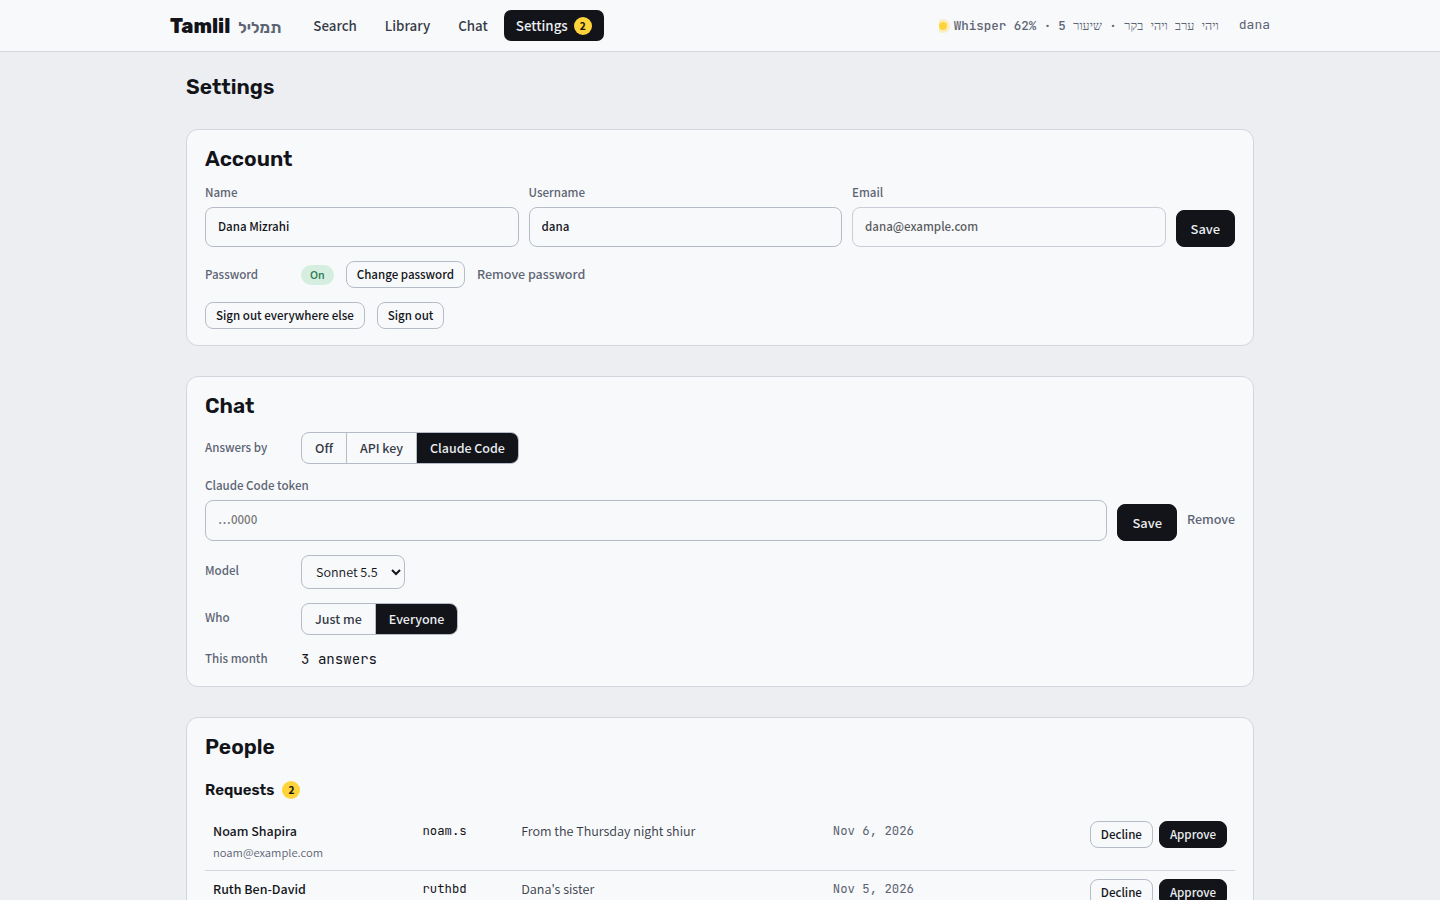
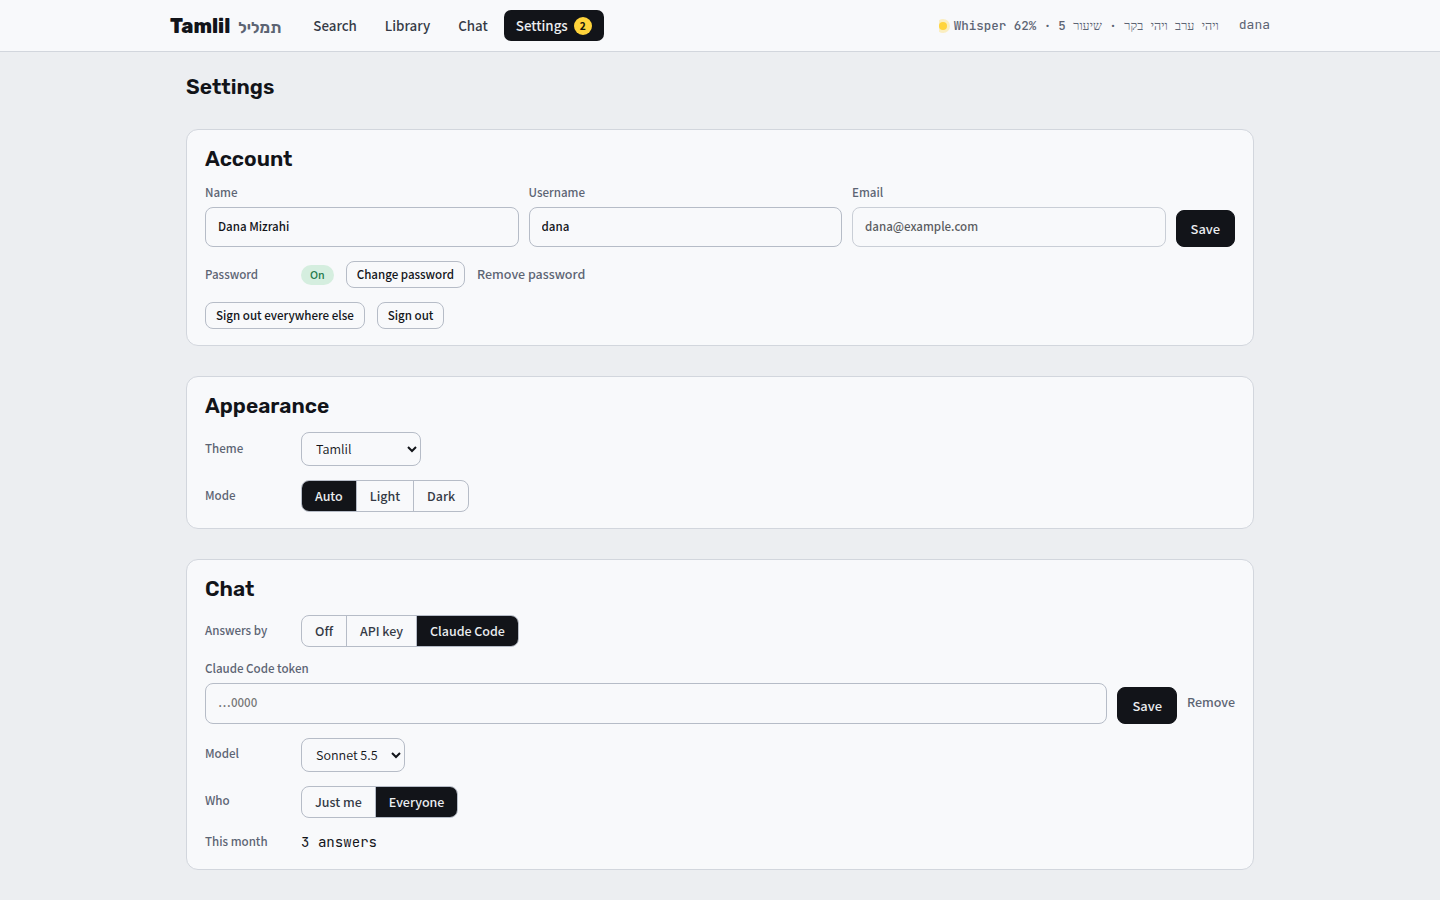
Themes: fourteen of them, light and dark, picked in Settings
Settings has a new Appearance section for everyone: a Theme list and a
Mode switch (Auto, Light, Dark), kept per device in the browser.
themes.js makes every colour app.css uses from a few per theme and
keeps text readable in all of them; Tamlil's own is unchanged.

diff --git a/app/tamlil/static/themes.js b/app/tamlil/static/themes.js
@@ -1,0 +1,144 @@
+/* Tamlil's themes. A theme is a few colours in a light and a dark version, and every colour token
+   app.css uses is made from them here, so text keeps its contrast in all of them. Tamlil's own is
+   app.css's colours exactly. The yellow highlight (--cap) is each theme's own yellow.
+
+   Kept per device in localStorage: tamlil.look (which theme) and tamlil.mode (auto, light or dark;
+   auto follows the device). Loaded in each page's head, so the colours are on before anything shows. */
+(() => {
+// bg: the page; surface: the bar and cards; ink: text; accent: links and what's running;
+// cap: the highlight; form: other forms of a word; good, warn, bad. Only bg, ink and accent are needed.
+const TAMLIL_LIGHT = {
+  '--bg': '#ECEEF1', '--surface': '#F8F9FB', '--sunk': '#E2E5EA', '--ink': '#121419', '--ink-2': '#343945', '--muted': '#5C6473',
+  '--rule': '#D2D6DD', '--rule-2': '#B6BCC7', '--cap': '#FFD43B', '--cap-ink': '#17150A', '--focus': '#2851C8',
+  '--form': '#07756D', '--form-bg': '#D3EEEA', '--ok': '#1F7A4A', '--ok-bg': '#D5EEDF', '--warn': '#8F5A00', '--warn-bg': '#F6E7C8',
+  '--bad': '#B8322A', '--bad-bg': '#F6DAD7', '--run': '#2851C8', '--run-bg': '#DCE4F8', 'color-scheme': 'light',
+};
+const TAMLIL_DARK = {
+  '--bg': '#0E1014', '--surface': '#161920', '--sunk': '#1E222A', '--ink': '#E7EAF0', '--ink-2': '#C2C7D0', '--muted': '#8C94A3',
+  '--rule': '#2A2F39', '--rule-2': '#3D4350', '--cap': '#FFD43B', '--cap-ink': '#17150A', '--focus': '#86A5FF',
+  '--form': '#62D2C5', '--form-bg': '#0F302C', '--ok': '#5BCB90', '--ok-bg': '#12301F', '--warn': '#E6B656', '--warn-bg': '#35280C',
+  '--bad': '#F2796F', '--bad-bg': '#3A1714', '--run': '#86A5FF', '--run-bg': '#1A2446', 'color-scheme': 'dark',
+};
+
+const FAMILIES = [
+  { id: 'tamlil', name: 'Tamlil', light: { vars: TAMLIL_LIGHT }, dark: { vars: TAMLIL_DARK } },
+  { id: 'paper', name: 'Paper',
+    light: { bg: '#f7f0e3', surface: '#fcf8f0', ink: '#3a3127', accent: '#9a5b1f', cap: '#f3cd5e', form: '#3f7a6e' },
+    dark: { bg: '#1d1915', surface: '#241f19', ink: '#e8dcc6', accent: '#d39a5b', cap: '#e3b34f', form: '#7fbfb0' } },
+  { id: 'pencil', name: 'Blue pencil',
+    light: { bg: '#f4f7fa', surface: '#ffffff', ink: '#3a4450', accent: '#2e7bd6', cap: '#ffe066', form: '#1a8a7a', bad: '#d0457b' },
+    dark: { bg: '#17202b', surface: '#1c2733', ink: '#cfd8e2', accent: '#5aa5f0', cap: '#e8c547', form: '#5fc9b8', bad: '#f07aa5' } },
+  { id: 'nord', name: 'Nord',
+    light: { bg: '#e5e9f0', surface: '#eceff4', ink: '#2e3440', accent: '#5e81ac', cap: '#ebcb8b', form: '#5e9c9b', good: '#5f8a4a', warn: '#b0703a', bad: '#bf616a' },
+    dark: { bg: '#2e3440', surface: '#3b4252', ink: '#e5e9f0', accent: '#88c0d0', cap: '#ebcb8b', form: '#8fbcbb', good: '#a3be8c', warn: '#d08770', bad: '#bf616a' } },
+  { id: 'solarized', name: 'Solarized',
+    light: { bg: '#eee8d5', surface: '#fdf6e3', ink: '#475b62', accent: '#268bd2', cap: '#e5c35a', form: '#2aa198', good: '#859900', warn: '#cb4b16', bad: '#dc322f' },
+    dark: { bg: '#002b36', surface: '#073642', ink: '#a3b1b1', accent: '#268bd2', cap: '#b58900', form: '#2aa198', good: '#859900', warn: '#cb4b16', bad: '#dc322f' } },
+  { id: 'gruvbox', name: 'Gruvbox',
+    light: { bg: '#f2e5bc', surface: '#fbf1c7', ink: '#3c3836', accent: '#076678', cap: '#fabd2f', form: '#427b58', good: '#79740e', warn: '#af3a03', bad: '#9d0006' },
+    dark: { bg: '#282828', surface: '#32302f', ink: '#ebdbb2', accent: '#83a598', cap: '#fabd2f', form: '#8ec07c', good: '#b8bb26', warn: '#fe8019', bad: '#fb4934' } },
+  { id: 'catppuccin', name: 'Catppuccin',
+    light: { bg: '#e6e9ef', surface: '#eff1f5', ink: '#4c4f69', accent: '#1e66f5', cap: '#f5c56b', form: '#179299', good: '#40a02b', warn: '#fe640b', bad: '#d20f39' },
+    dark: { bg: '#1e1e2e', surface: '#181825', ink: '#cdd6f4', accent: '#89b4fa', cap: '#f9e2af', form: '#94e2d5', good: '#a6e3a1', warn: '#fab387', bad: '#f38ba8' } },
+  { id: 'rose-pine', name: 'Rosé Pine',
+    light: { bg: '#f2e9e1', surface: '#faf4ed', ink: '#575279', accent: '#286983', cap: '#f6c177', form: '#56949f', good: '#56949f', warn: '#ea9d34', bad: '#b4637a' },
+    dark: { bg: '#232136', surface: '#2a273f', ink: '#e0def4', accent: '#c4a7e7', cap: '#f6c177', form: '#9ccfd8', good: '#9ccfd8', warn: '#ea9a97', bad: '#eb6f92' } },
+  { id: 'tokyo', name: 'Tokyo Night',
+    light: { bg: '#d5d6db', surface: '#e1e2e7', ink: '#343b58', accent: '#2e7de9', cap: '#e0af68', form: '#387068', good: '#587539', warn: '#b15c00', bad: '#f52a65' },
+    dark: { bg: '#1a1b26', surface: '#16161e', ink: '#c0caf5', accent: '#7aa2f7', cap: '#e0af68', form: '#73daca', good: '#9ece6a', warn: '#ff9e64', bad: '#f7768e' } },
+  { id: 'dracula', name: 'Dracula',
+    light: { bg: '#f5f0d8', surface: '#fffbeb', ink: '#1f1f1f', accent: '#644ac9', cap: '#ece05a', form: '#036a96', good: '#14710a', warn: '#a34d14', bad: '#cb3a2a' },
+    dark: { bg: '#282a36', surface: '#21222c', ink: '#f8f8f2', accent: '#bd93f9', cap: '#f1fa8c', form: '#8be9fd', good: '#50fa7b', warn: '#ffb86c', bad: '#ff5555' } },
+  { id: 'everforest', name: 'Everforest',
+    light: { bg: '#f4f0d9', surface: '#fdf6e3', ink: '#4d5a61', accent: '#3a94c5', cap: '#e8c46a', form: '#35a77c', good: '#8da101', warn: '#f57d26', bad: '#f85552' },
+    dark: { bg: '#2d353b', surface: '#343f44', ink: '#d3c6aa', accent: '#7fbbb3', cap: '#dbbc7f', form: '#83c092', good: '#a7c080', warn: '#e69875', bad: '#e67e80' } },
+  { id: 'eink', name: 'E-ink',
+    light: { bg: '#ebe7de', surface: '#f4f1ea', ink: '#1a1a1a', accent: '#2f2f2f', cap: '#cdc7b8', form: '#3d3d3d', good: '#2f2f2f', warn: '#2f2f2f', bad: '#1a1a1a' },
+    dark: { bg: '#121212', surface: '#1a1a1a', ink: '#e8e4da', accent: '#c9c9c9', cap: '#5a5750', form: '#bdbdbd', good: '#c9c9c9', warn: '#c9c9c9', bad: '#e8e4da' } },
+  { id: 'contrast', name: 'High contrast',
+    light: { bg: '#ffffff', surface: '#ffffff', ink: '#000000', accent: '#0040c0', cap: '#ffe500', form: '#00695c', good: '#006b2d', warn: '#8a4b00', bad: '#b00020' },
+    dark: { bg: '#000000', surface: '#0c0c0c', ink: '#ffffff', accent: '#7ab8ff', cap: '#ffe500', form: '#5ee0c8', good: '#5ee08a', warn: '#ffc061', bad: '#ff7a7a' } },
+  { id: 'black', name: 'Black',
+    light: { bg: '#ffffff', surface: '#ffffff', ink: '#121419', accent: '#2851C8', form: '#07756D' },
+    dark: { bg: '#000000', surface: '#0c0d10', ink: '#E7EAF0', accent: '#86A5FF', form: '#62D2C5' } },
+];
+
+/* ---------- colour arithmetic ---------- */
+const rgb = (h) => [1, 3, 5].map((i) => parseInt(h.slice(i, i + 2), 16) / 255);
+const hex = (c) => '#' + c.map((v) => Math.round(Math.min(1, Math.max(0, v)) * 255).toString(16).padStart(2, '0')).join('');
+const mix = (a, b, t) => hex(rgb(a).map((v, i) => v + (rgb(b)[i] - v) * t));
+const lum = (h) => { const [r, g, b] = rgb(h).map((v) => (v <= 0.03928 ? v / 12.92 : ((v + 0.055) / 1.055) ** 2.4)); return 0.2126 * r + 0.7152 * g + 0.0722 * b; };
+const contrast = (a, b) => { const x = lum(a), y = lum(b); return (Math.max(x, y) + 0.05) / (Math.min(x, y) + 0.05); };
+// c, moved toward white or black (away from the grounds) until it reads on every one of them
+const readable = (c, grounds, min) => {
+  const toward = lum(grounds[0]) < 0.3 ? '#ffffff' : '#000000';
+  for (let t = 0; t <= 1.001; t += 0.04) {
+    const x = mix(c, toward, t);
+    if (grounds.every((g) => contrast(x, g) >= min)) return x;
+  }
+  return toward;
+};
+const onFill = (f) => (contrast(f, '#ffffff') >= contrast(f, '#17150a') ? '#ffffff' : '#17150a');
+
+// Every token app.css uses, from a palette's few colours.
+function vars(p, dark) {
+  if (p.vars) return p.vars;
+  const base = dark ? TAMLIL_DARK : TAMLIL_LIGHT;
+  const bg = p.bg, ink = p.ink;
+  const surface = p.surface || (dark ? mix(bg, ink, 0.05) : mix(bg, '#ffffff', 0.6));
+  const grounds = [bg, surface];
+  const pair = (name, c, t) => {
+    const soft = mix(bg, c, t);
+    return { [`--${name}`]: readable(c, [...grounds, soft], 4.5), [`--${name}-bg`]: soft };
+  };
+  const cap = p.cap || '#FFD43B';
+  const focus = readable(p.accent, grounds, 4.5), runBg = mix(bg, p.accent, dark ? 0.2 : 0.1);
+  return {
+    '--bg': bg, '--surface': surface, '--sunk': dark ? mix(bg, ink, 0.1) : mix(bg, ink, 0.06),
+    '--ink': ink, '--ink-2': mix(ink, bg, 0.16), '--muted': readable(mix(ink, bg, dark ? 0.42 : 0.34), grounds, 4.5),
+    '--rule': mix(bg, ink, dark ? 0.13 : 0.12), '--rule-2': mix(bg, ink, dark ? 0.22 : 0.25),
+    '--cap': cap, '--cap-ink': onFill(cap), '--focus': focus,
+    '--run': readable(p.accent, [...grounds, runBg], 4.5), '--run-bg': runBg,
+    ...pair('form', p.form || base['--form'], dark ? 0.17 : 0.13),
+    ...pair('ok', p.good || base['--ok'], dark ? 0.17 : 0.14),
+    ...pair('warn', p.warn || base['--warn'], dark ? 0.17 : 0.14),
+    ...pair('bad', p.bad || base['--bad'], dark ? 0.17 : 0.14),
+    'color-scheme': dark ? 'dark' : 'light',
+  };
+}
+
+const MODES = ['auto', 'light', 'dark'];
+const media = matchMedia('(prefers-color-scheme: dark)');
+const store = (k, v) => { try { if (v === undefined) return localStorage.getItem(k); localStorage.setItem(k, v); } catch (e) {} return null; };
+const byId = (id) => FAMILIES.find((f) => f.id === id) || FAMILIES[0];
+
+function get() {
+  const mode = store('tamlil.mode');
+  return { look: byId(store('tamlil.look')).id, mode: MODES.includes(mode) ? mode : 'auto' };
+}
+const isDark = (mode) => mode === 'dark' || (mode === 'auto' && media.matches);
+
+function apply(a) {
+  a = a || get();
+  const fam = byId(a.look), dark = isDark(a.mode), r = document.documentElement;
+  const v = vars(dark ? fam.dark : fam.light, dark);
+  for (const [k, val] of Object.entries(v)) r.style.setProperty(k, val);
+  r.dataset.mode = dark ? 'dark' : 'light';
+  r.dataset.look = fam.id;
+  let m = document.querySelector('meta[name="theme-color"]');
+  if (!m) { m = document.createElement('meta'); m.name = 'theme-color'; document.head.appendChild(m); }
+  m.content = v['--surface'];
+}
+
+function set(patch) {
+  const a = Object.assign(get(), patch);
+  store('tamlil.look', a.look);
+  store('tamlil.mode', a.mode);
+  apply(a);
+}
+
+media.addEventListener('change', () => { if (get().mode === 'auto') apply(); });
+window.addEventListener('storage', (e) => { if (e.key === 'tamlil.look' || e.key === 'tamlil.mode') apply(); });   // another tab
+window.TamlilThemes = { FAMILIES, vars, get, set, apply, isDark, contrast };
+apply();
+})();

diff --git a/app/tamlil/static/app.js b/app/tamlil/static/app.js
@@ -290,6 +290,7 @@ async function viewSettings() {
   $('#main').innerHTML = `
     <div class="lib-head"><h2>Settings</h2></div>
     ${ME.email ? accountHTML() : ''}
+    ${lookHTML()}
     ${cset ? chatSetHTML(cset) : ''}
     ${ppl ? peopleHTML(ppl) : ''}
     ${shares.length ? `<section class="add set"><h3>Shared links</h3><div class="tablewrap"><table class="lib ppl"><tbody>${shares.map(x => `<tr>
@@ -299,7 +300,26 @@ async function viewSettings() {
       <td class="actions"><div class="acts"><button class="btn small" data-copy="${esc(x.url)}">Copy</button><button class="icon" data-unshare="${esc(x.token)}" title="Stop sharing" aria-label="Stop sharing">✕</button></div></td>
     </tr>`).join('')}</tbody></table></div></section>` : ''}`;
   wireSettings(ppl);
+  wireLook();
   if (cset) wireChatSet();
+}
+// The theme is per device (themes.js keeps it), so it's here for everyone, the tailnet too.
+function lookHTML() {
+  const TH = window.TamlilThemes, cur = TH.get();
+  return `<section class="add set" id="lookset">
+    <h3>Appearance</h3>
+    <div class="setrow"><span class="lbl">Theme</span><select id="t-look">${TH.FAMILIES.map(f => `<option value="${f.id}" ${f.id === cur.look ? 'selected' : ''}>${esc(f.name)}</option>`).join('')}</select></div>
+    <div class="setrow"><span class="lbl">Mode</span><div class="seg" role="group" aria-label="Mode">${[['auto', 'Auto'], ['light', 'Light'], ['dark', 'Dark']].map(([v, l]) =>
+      `<button type="button" data-mode="${v}" aria-pressed="${cur.mode === v}">${l}</button>`).join('')}</div></div>
+  </section>`;
+}
+function wireLook() {
+  const TH = window.TamlilThemes;
+  $('#t-look').onchange = e => TH.set({look: e.target.value});
+  $$('[data-mode]').forEach(b => b.onclick = () => {
+    TH.set({mode: b.dataset.mode});
+    $$('[data-mode]').forEach(x => x.setAttribute('aria-pressed', String(x === b)));
+  });
 }
 function chatSetHTML(s) {
   const seg = (key, opts, cur) => `<div class="seg" role="group">${opts.map(([v, l]) => `<button type="button" data-cset="${key}" data-v="${v}" aria-pressed="${cur === v}">${l}</button>`).join('')}</div>`;

diff --git a/app/tamlil/static/app.css b/app/tamlil/static/app.css
@@ -195,7 +195,7 @@ a.me{color:var(--muted)} a.me:hover{color:var(--ink)}
 .setrow{display:flex;flex-wrap:wrap;align-items:center;gap:8px 12px;margin-top:14px}
 .setrow .lbl{font-size:13px;color:var(--muted);font-weight:600;min-width:84px}
 .joinurl{overflow-wrap:anywhere;min-width:0}
-.btn.danger{background:var(--bad);border-color:var(--bad);color:#fff}
+.btn.danger{background:var(--bad);border-color:var(--bad);color:var(--bg)}
 .linkish.dim{color:var(--muted);font-size:14px;font-weight:600}
 .ppl .note{max-width:280px;color:var(--ink-2);overflow-wrap:anywhere}
 .ppl .acts{display:flex;gap:6px;justify-content:flex-end;align-items:center}
@@ -291,7 +291,7 @@ details.menu .pop a:hover{background:var(--sunk)}
 .chat:not(.has-thread) .askf{position:static;background:none}
 .keyf{grid-template-columns:minmax(0,1.6fr) auto auto;align-items:end}
 .keyf .linkish{align-self:end;padding-bottom:10px}
-#chatset select{font-size:14px;padding:6px 10px}
+#chatset select,#lookset select{font-size:14px;padding:6px 10px}
 @media (max-width:760px){
   .chat{grid-template-columns:minmax(0,1fr);gap:18px}
   .clist{position:static;max-height:none;order:2}

diff --git a/app/tamlil/static/login.html b/app/tamlil/static/login.html
@@ -7,6 +7,7 @@
 <link rel="icon" href="/static/icon.svg" type="image/svg+xml">
 <link rel="stylesheet" href="/static/fonts.css">
 <link rel="stylesheet" href="/static/app.css">
+<script src="/static/themes.js"></script>
 <style>
   .gate{min-height:100vh;display:grid;place-items:center;padding:16px}
   .gate form,.gate .card{display:grid;gap:12px;width:min(360px,100%);background:var(--surface);border:1px solid var(--rule);border-radius:14px;padding:26px 24px}

diff --git a/app/tamlil/static/share.html b/app/tamlil/static/share.html
@@ -9,6 +9,7 @@
 <link rel="icon" href="/static/icon.svg" type="image/svg+xml">
 <link rel="stylesheet" href="/static/fonts.css">
 <link rel="stylesheet" href="/static/app.css">
+<script src="/static/themes.js"></script>
 <style>
   .top .mark{pointer-events:none}
   .shead{margin-bottom:16px}

diff --git a/app/tamlil/static/index.html b/app/tamlil/static/index.html
@@ -7,6 +7,7 @@
 <link rel="icon" href="/static/icon.svg" type="image/svg+xml">
 <link rel="stylesheet" href="/static/fonts.css">
 <link rel="stylesheet" href="/static/app.css">
+<script src="/static/themes.js"></script>
 </head>
 <body>
 <header class="top">

diff --git a/README.md b/README.md
@@ -39,6 +39,7 @@ So Tamlil (תמליל, Hebrew for a transcript) keeps an eye on the few channels
 - **Share and export:** a link to a transcript that anyone can open, and every transcript as text, subtitles (`.srt`, `.vtt`) or JSON, one video or a whole channel. See [Watching](docs/watching.md#sharing-and-exporting).
 - **Pause a channel:** it keeps everything it has and the worker skips it, until it's picked up again.
 - **Invite only:** I invite people by email, or they ask for an invite and I say yes. They sign in with a code by email or a password, and Settings has their account. See [Signing in, people and Settings](docs/people.md).
+- **Themes:** fourteen of them, each light and dark, picked per device in Settings. See [Settings](docs/people.md#settings).
 
 ## Screenshots
 
@@ -48,7 +49,7 @@ So Tamlil (תמליל, Hebrew for a transcript) keeps an eye on the few channels
 
 <img src="docs/images/library.png" alt="The Library: three sources with their language, range, how much is searchable, how many went through Whisper, and their state, with one paused, then Add">
 
-<img src="docs/images/settings.png" alt="Settings: the account with its name, username, email and password, Chat answered by Claude Code, then People with two requests to approve or decline">
+<img src="docs/images/settings.png" alt="Settings: the account with its name, username, email and password, Appearance with the theme and the mode, and Chat answered by Claude Code">
 
 <p align="center"><img src="docs/images/phone.png" width="320" alt="Searching רקיע on a phone"> <img src="docs/images/email.png" width="320" alt="The invite email, in Tamlil's colors"></p>
 

diff --git a/docs/people.md b/docs/people.md
@@ -36,9 +36,18 @@ I get an email about each request, and when I say yes, they get one that says th
 - **Sign out everywhere else** signs out every other browser and phone, and keeps this one.
 - **Sign out.**
 
+**Appearance** is there for everyone, the tailnet too:
+
+- **Theme** is Tamlil's colors, picked from a list: Tamlil's own, then Paper, Blue pencil, Nord, Solarized, Gruvbox, Catppuccin, Rosé Pine, Tokyo Night, Dracula, Everforest, E-ink, High contrast and Black. It changes as soon as you pick one, and every theme has a light and a dark version, with the highlight in its own yellow.
+- **Mode** is **Auto** (light or dark with the device), **Light** or **Dark**.
+
+Both are kept in the browser, so the phone and the computer can each have their own.
+
+![Six of the themes on the same search: Tamlil dark, Paper, Nord dark, Solarized, Dracula dark and Everforest](images/themes.png)
+
 The owner also sees **Chat** there, which is where chat is turned on (see [Chat](chat.md#turning-it-on)).
 
-![Settings: the account, Chat answered by Claude Code, then People with two requests waiting](images/settings.png)
+![Settings: the account, Appearance with the theme and the mode, and Chat answered by Claude Code](images/settings.png)
 
 ## People, for the owner
 

diff --git a/docs/README.md b/docs/README.md
@@ -13,7 +13,7 @@ These pages are how Tamlil works, written down. It searches YouTube videos by wh
 - [Searching](searching.md): the search box, the results, and how Hebrew words match
 - [Watching](watching.md): the player, the transcript, stepping through the matches, and sharing and exporting
 - [Chat](chat.md): asking Claude about the videos, and turning it on with an API key or Claude Code
-- [Signing in, people and Settings](people.md): codes and passwords, your account, inviting people and asking for an invite
+- [Signing in, people and Settings](people.md): codes and passwords, your account, themes, inviting people and asking for an invite
 
 ### Under the hood
 - [How it works](how-it-works.md): captions or Whisper, the index, the VPN and the player
